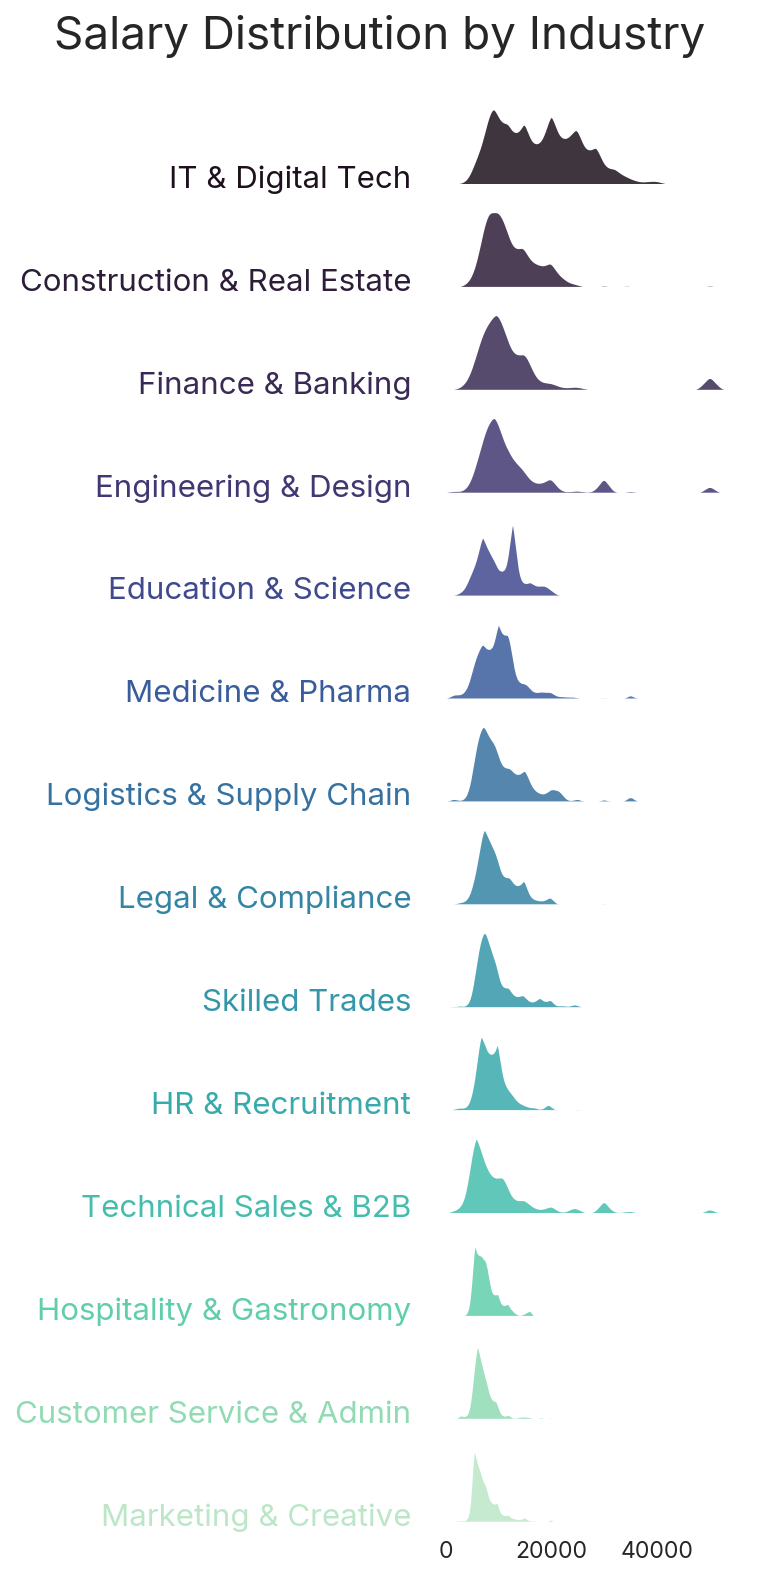
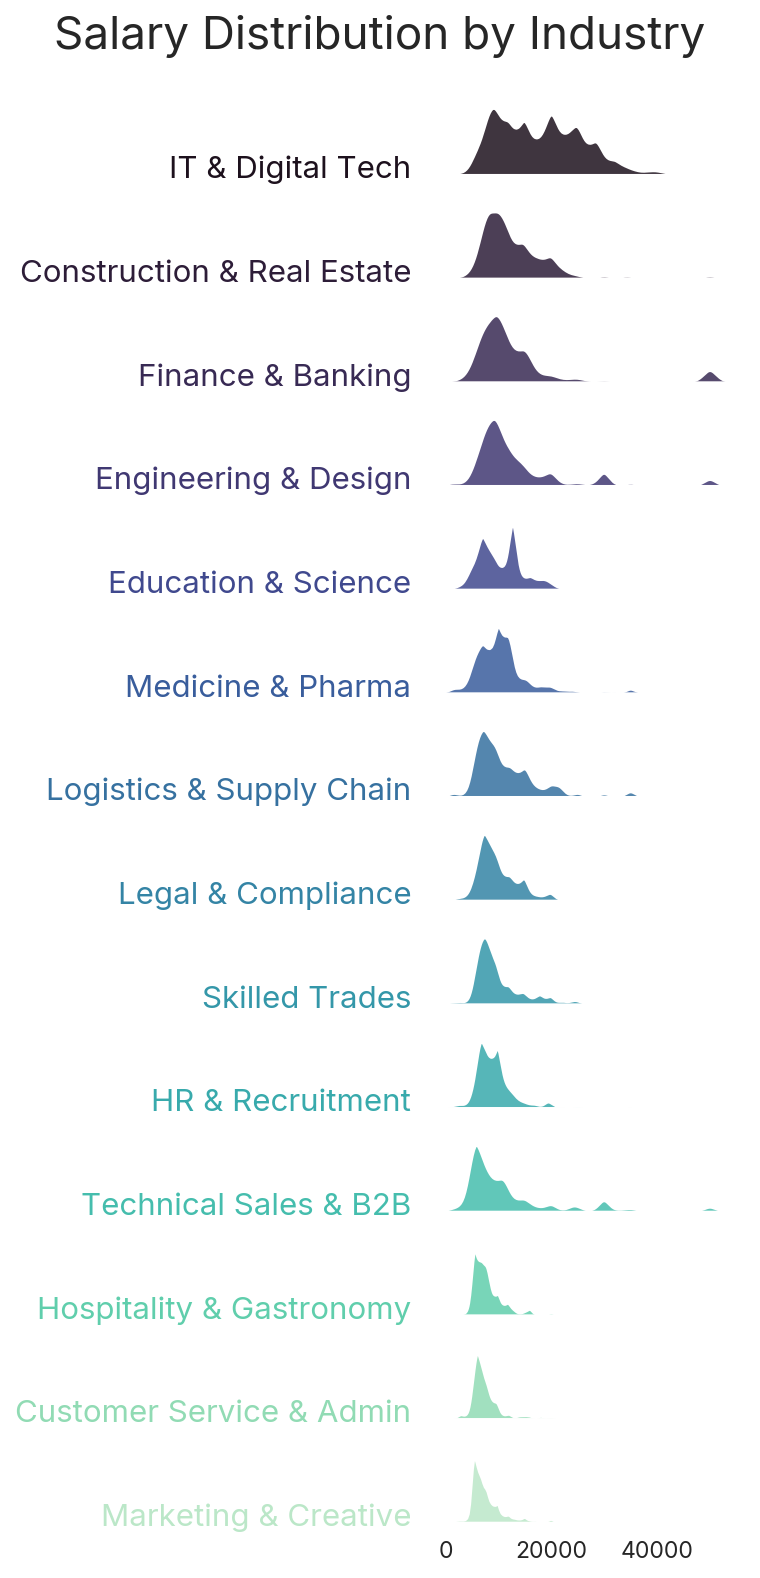
unified orchestration of data visualization for pracuj.pl job offers analysis

diff --git a/DataViz_PracujPL/scripts/main_trigger.py b/DataViz_PracujPL/scripts/main_trigger.py
@@ -1,0 +1,68 @@
+"""
+Hlavní orchestrace — spustí celou EDA pipeline jedním příkazem.
+
+Použití:
+    python scripts/main_trigger.py          # spustí vše (01–04)
+    python scripts/main_trigger.py 02 04    # spustí jen vybrané kroky
+"""
+
+import importlib
+import sys
+import time
+from pathlib import Path
+
+# Přidej scripts/ do sys.path, aby importy uvnitř modulů fungovaly
+sys.path.insert(0, str(Path(__file__).resolve().parent))
+
+# Moduly s číslem v názvu — importujeme přes importlib
+_mod01 = importlib.import_module("01_eda_summary")
+_mod02 = importlib.import_module("02_visualizations")
+_mod03 = importlib.import_module("03_geo_map")
+_mod04 = importlib.import_module("04_treemap_sankey")
+
+STEPS = {
+    "01": ("EDA Summary", _mod01.run_eda),
+    "02": ("Visualizations (bar, heatmap, ridge)", _mod02.run),
+    "03": ("Geo Choropleth Maps", _mod03.run),
+    "04": ("Treemap & Sankey", _mod04.run),
+}
+
+
+def main():
+    # Vyber kroky z CLI argumentů, nebo spusť vše
+    selected = sys.argv[1:] if len(sys.argv) > 1 else list(STEPS)
+
+    for key in selected:
+        if key not in STEPS:
+            print(f"[ERROR] Unknown step '{key}'. Available: {', '.join(STEPS)}")
+            sys.exit(1)
+
+    print("=" * 60)
+    print("Pracuj_all_viz — Full Pipeline")
+    print("=" * 60)
+
+    failed = []
+    for key in selected:
+        label, func = STEPS[key]
+        print(f"\n>>> [{key}] {label}")
+        t0 = time.perf_counter()
+        try:
+            func()
+            elapsed = time.perf_counter() - t0
+            print(f"    OK  ({elapsed:.1f}s)")
+        except Exception as exc:
+            elapsed = time.perf_counter() - t0
+            print(f"    FAIL ({elapsed:.1f}s) — {exc}")
+            failed.append(key)
+
+    # Souhrn
+    print("\n" + "=" * 60)
+    if failed:
+        print(f"Done with errors. Failed steps: {', '.join(failed)}")
+        sys.exit(1)
+    else:
+        print(f"All {len(selected)} steps completed successfully.")
+
+
+if __name__ == "__main__":
+    main()

diff --git a/DataViz_PracujPL/brief.md b/DataViz_PracujPL/brief.md
@@ -81,7 +81,7 @@ Pracuj_all_viz/
 |---|---|---|---|---|
 | 1 | Geo choropleth | Počet nabídek / vojvodství + % z celku | geopandas | |
 | 2 | Bar chart | Počet nabídek podle mapped_industry | seaborn | |
-| 3 | Sankey diagram | Top 5 mapped_industry ve vojvodství (levo → pravo) | pySankey | **Emergency fallback:** stacked bar chart (bez nové lib) |
+| 3 | Sankey diagram | Top 10 Industries → 16 Voivodeships | pySankey | industry → region |
 | 4 | Tabulková heatmapa | Vojvodství × mapped_industry, absolutní čísla | seaborn | pivot tabulka |
 | 5 | Bar chart | position_level (>1000 nabídek), s % | seaborn | |
 | 7 | Bar chart | work_modes | seaborn | |
@@ -92,6 +92,8 @@ Pracuj_all_viz/
 | 11 | Ridge Plot | monthly_max_salary podle position_level | seaborn FacetGrid | overlapping, mako styl |
 | 12 | Ridge Plot | monthly_max_salary podle mapped_industry | seaborn FacetGrid | overlapping, mako styl |
 | 13 | Nested Treemap | Top 20 Cities → top 5 mapped_industry (% nabídek) | plotly + kaleido | export jako PNG |
+| 14 | Tabulková heatmapa | Language × mapped_industry, absolutní čísla | seaborn | center=1800 |
+| 15 | Sankey diagram | Top 10 Languages → Top 10 Industries | pySankey | language → industry |
 
 ### Fáze implementace
 
@@ -125,7 +127,7 @@ Pracuj_all_viz/
 - [x] GeoJSON stažen do `data/geo/` — napojení 16/16 regionů ověřeno
 - [x] EDA skripty otestovány na reálných datech
 - [x] Geo mapa vojvodství funkční
-- [x] Všech 13 PNG grafů vygenerováno do `outputs/figures/`
+- [x] Všech 15 PNG grafů vygenerováno do `outputs/figures/`
 
 ---
 
@@ -234,8 +236,39 @@ Pracuj_all_viz/
 - Bílá ohraničovací linka zachována (`lw=2`)
 - Baseline (`axhline`) odstraněn — způsoboval viditelné čáry přes celou šířku
 - Label pozice: `y=0.05` (blíž k baseline distribuce)
-- `hspace=0.0` (bez překrytí — nejlepší vizuální výsledek)
+- `hspace=0.5` (oddělené, bez překrytí)
 - Titulek: `fontweight=600` (Inter SemiBold)
+
+### Session 6 — 2026-04-10
+
+**Titulky přeloženy do angličtiny:**
+- Všechny české titulky ve skriptech 02, 04 přepsány do EN
+- Geo mapy (03) a Sankey (04) už měly anglické titulky
+
+**Heatmapa č. 4 — labely smazány:**
+- `ax.set_xlabel("")`, `ax.set_ylabel("")` — odstranění auto-generated labelů z pivot sloupců
+- Colorbar label vyprázdněn
+
+**Code cleanup (-73 řádků):**
+- `02`: smazána nepoužívaná `load_data()`, 3× zakomentovaný `ax.set_xlabel`
+- `03`: smazán unused `import mpatches`, sloučeny `CMAP_COUNT`/`CMAP_SALARY` → `CMAP`, vyčištěn `aggregate()` (smazány unused `salary_min_mean`, `salary_max_mean`, `salary_mid_mean`)
+- `04`: smazán unused `import mticker`, unused SQL sloupec `position_levels`, unused `agg["label"]`, 48 řádků zakomentovaného fallback kódu
+- `db_connection.py`: smazán zbytečný `row_factory = sqlite3.Row`
+
+**Dokumentace opravena:**
+- brief.md: handoff checklist zaškrtnut, struktura projektu aktualizována, duplicitní č. 9 přečíslován na 9a/9b, omezení Plotly upřesněno
+- CLAUDE.md: aktuální stav doplněn
+
+**Nové vizualizace — mapped_languages:**
+- č. 14 Heatmapa: language × industry (center=1800, formát shodný s č. 4)
+- č. 15 Sankey: Top 10 Languages → Top 10 Industries (formát shodný s č. 3)
+- `_sankey_pysankey()` refaktorován na obecný `_render_sankey()` — sdílený pro č. 3 i č. 15
+- `mapped_languages`: 29 % non-null, 10 jazyků, English 82 %, German 12 %
+
+**GitHub push:**
+- Projekt přidán do `JirinAdam/Portfolio` jako složka `DataViz_PracujPL/`
+- DB (221 MB) vyloučena přes existující `.gitignore` (`*.db`)
+- README.md vytvořen v angličtině
 
 ---
 

diff --git a/DataViz_PracujPL/CLAUDE.md b/DataViz_PracujPL/CLAUDE.md
@@ -4,14 +4,15 @@
 Explorativní analýza dat polského pracovního trhu. Výstupem jsou statické PNG vizualizace pro web článek — žádná interaktivita, žádný dashboard, žádný deployment.
 
 ## Cíl
-12 publikovatelných PNG grafů (bar charty, geo choropleth, heatmapy, ridge ploty, treemapy, sankey) doplněných textovým narativem na webu (`domena.com/data-analyst/`).
+15 publikovatelných PNG grafů (bar charty, geo choropleth, heatmapy, ridge ploty, treemapy, sankey) doplněných textovým narativem na webu (`domena.com/data-analyst/`).
 Graf č. 6 (position_level choropleth sety) byl odstraněn jako redundantní.
 
 ## Data
 - Zdroj: SQLite databáze s nabídkami práce z polského trhu
 - Umístění: `data/job_database.db`
 - Rozsah: 65 401 řádků, tabulka `job_offers`, 27 sloupců
-- Klíčové sloupce: `salary_min`, `salary_max`, `monthly_max_salary`, `city`, `region`, `mapped_industry`, `employment_type`, `work_modes`, `position_levels`, `date_posted`
+- Klíčové sloupce: `salary_min`, `salary_max`, `monthly_max_salary`, `city`, `region`, `mapped_industry`, `mapped_languages`, `employment_type`, `work_modes`, `position_levels`, `date_posted`
+- `mapped_languages` má 71 % null hodnot (19 001 non-null), 10 unikátních jazyků, English dominuje (82 %)
 - `monthly_max_salary` má 66 % null hodnot — používat jen pro ridge ploty (distribuce), ne pro průměry
 - Regiony: 16 vojvodství (`mazowieckie`, `śląskie`…) + `zagranica` — filtrovat při geo vizualizacích
 
@@ -19,10 +20,10 @@ Graf č. 6 (position_level choropleth sety) byl odstraněn jako redundantní.
 | Knihovna | Účel | Vizuály |
 |---|---|---|
 | `pandas`, `sqlite3` | Data | — |
-| `matplotlib`, `seaborn` | Bar charty, heatmapy, ridge ploty | č. 2, 4, 5, 7, 9–12 |
+| `matplotlib`, `seaborn` | Bar charty, heatmapy, ridge ploty | č. 2, 4, 5, 7, 9–12, 14 |
 | `geopandas`, `mapclassify` | Choropleth mapa Polska | č. 1 |
-| `plotly` + `kaleido` | Nested treemapy → export PNG | č. 8, 13 |
-| `pySankey` | Sankey diagram → PNG | č. 3 |
+| `plotly` + `kaleido` | Nested treemapy → static PNG export | č. 8, 13 |
+| `pySankey` | Sankey diagram → PNG | č. 3, 15 |
 
 ## Struktura projektu
 ```
@@ -62,7 +63,14 @@ Pracuj_all_viz/
 - [x] č. 4 Heatmapa: midpoint `center=1800`
 - [x] Title format "Voivodeship" — `.str.title()` ve všech figures (č. 3, 4, 9 ridge)
 - [x] č. 2 Bar chart: přidán pct (jako č. 5, 7)
-- [x] Kompletní reforma Ridge plotů (mako, sharey=False, linewidth=0, hspace=0.0)
+- [x] Kompletní reforma Ridge plotů (mako, sharey=False, linewidth=0, hspace=0.5)
+- [x] Titulky všech vizualizací přeloženy do angličtiny
+- [x] Heatmapa č. 4: smazány xlabel, ylabel, colorbar label
+- [x] Code cleanup: smazán mrtvý kód, unused importy, redundantní konstanty (-73 řádků)
+- [x] Projekt pushnut na GitHub: `JirinAdam/Portfolio/DataViz_PracujPL/`
+- [x] č. 14 Heatmapa: language × industry (center=1800)
+- [x] č. 15 Sankey: Top 10 Languages → Top 10 Industries
+- [x] Sankey refaktor: obecný `_render_sankey()` helper (č. 3 i č. 15)
 
 ## Klíčové proměnné
 | Název | Typ | Popis |
